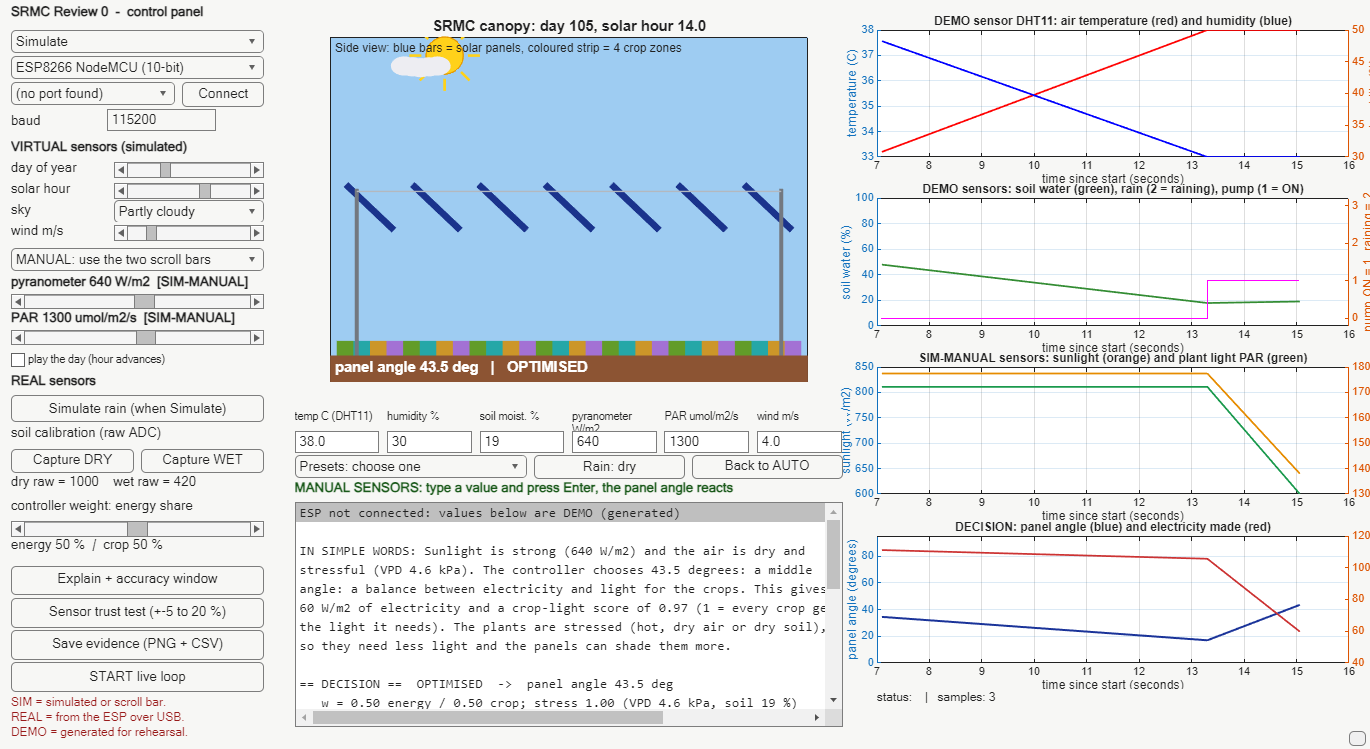
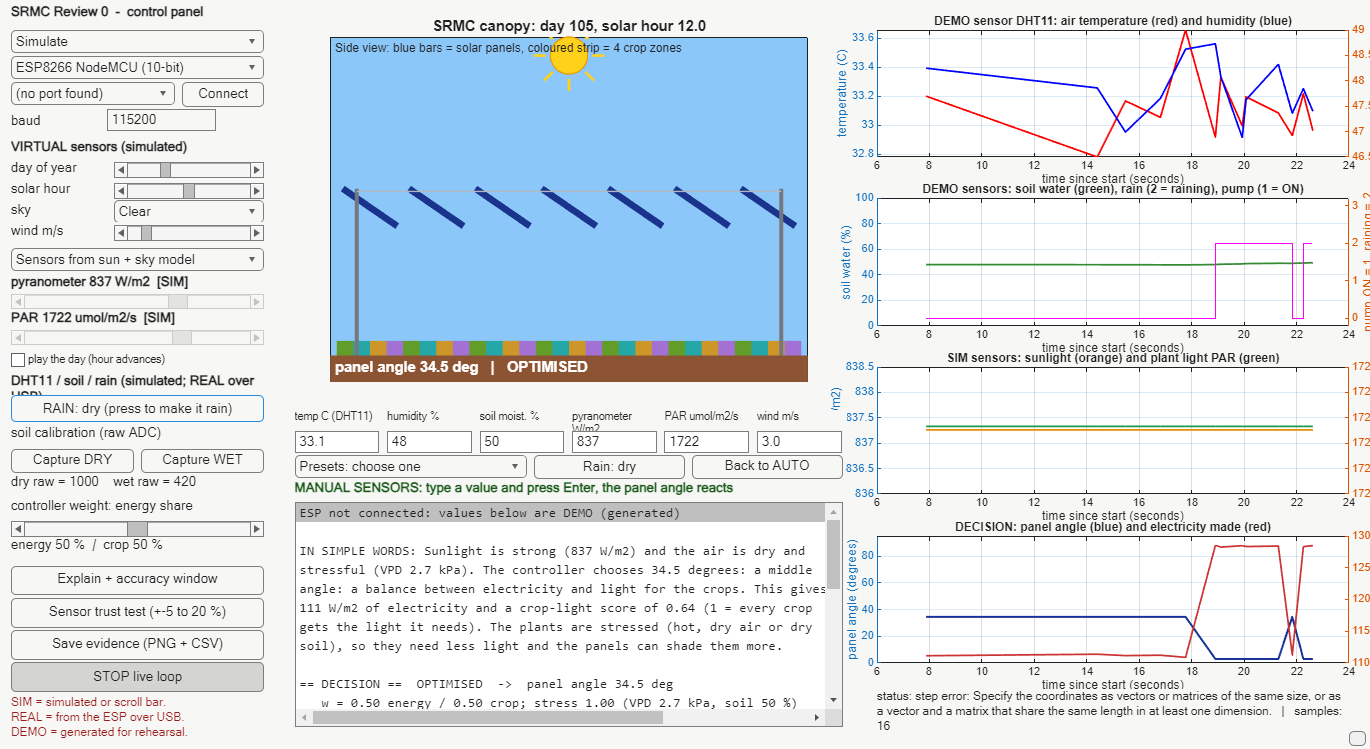
Review 0 dashboard: rain button reacts at once, live loop auto-starts, faster redraw

diff --git a/Review0_Prototype_Demo/matlab/review0_dashboard.m b/Review0_Prototype_Demo/matlab/review0_dashboard.m
@@ -42,9 +42,9 @@ h.pyr = uicontrol(fig, 'Style', 'slider', 'Units', 'normalized', 'Position', [x0
 h.parLbl = U([x0 0.558 w 0.028], 'text', '', [], 'FontWeight', 'bold');
 h.par = uicontrol(fig, 'Style', 'slider', 'Units', 'normalized', 'Position', [x0 0.539 w 0.02], 'Min', 0, 'Max', 2400, 'Value', 1650, 'Enable', 'off', 'Callback', @(~, ~) step());
 h.play = uicontrol(fig, 'Style', 'checkbox', 'Units', 'normalized', 'Position', [x0 0.505 w 0.03], 'String', 'play the day (hour advances)', 'BackgroundColor', [0.97 0.97 0.96], 'Callback', @(s, ~) setPlay(s.Value));
-U([x0 0.472 w 0.03], 'text', 'REAL sensors', [], 'FontWeight', 'bold');
+U([x0 0.472 w 0.03], 'text', 'DHT11 / soil / rain (simulated; REAL over USB)', [], 'FontWeight', 'bold');
 h.rainOv = uicontrol(fig, 'Style', 'togglebutton', 'Units', 'normalized', 'Position', [0.985 0.004 0.012 0.02], 'String', '.', 'BackgroundColor', [0.94 0.94 0.94], 'ForegroundColor', [0.8 0.8 0.8], 'Callback', @(s, ~) setRainOv(s.Value));   % small backup switch: forces rain = wet even when serial data is live (shown as SIM in the text panel)
-h.rain = U([x0 0.437 w 0.035], 'togglebutton', 'Simulate rain (when Simulate)', @(s, ~) setSimRain(s.Value));
+h.rain = U([x0 0.437 w 0.035], 'togglebutton', 'RAIN: dry (press to make it rain)', @(s, ~) setSimRain(s.Value));
 U([x0 0.403 w 0.03], 'text', 'soil calibration (raw ADC)', []);
 h.capDry = U([x0 0.368 0.09 0.033], 'pushbutton', 'Capture DRY', @(~, ~) capture('dry')); h.capWet = U([x0 + 0.095 0.368 0.09 0.033], 'pushbutton', 'Capture WET', @(~, ~) capture('wet'));
 h.calTxt = U([x0 0.337 w 0.03], 'text', '', []);
@@ -71,13 +71,14 @@ h.release = U([0.505 0.36 0.11 0.032], 'pushbutton', 'Back to AUTO', @(~, ~) onR
 h.log = uicontrol(fig, 'Style', 'text', 'Units', 'normalized', 'Position', [0.64 0.01 0.345 0.07], 'String', '', 'BackgroundColor', [0.97 0.97 0.96], 'HorizontalAlignment', 'left', 'FontSize', 9);
 tm = [];
 if ~headless
-    tm = timer('ExecutionMode', 'fixedSpacing', 'Period', 1, 'TimerFcn', @(~, ~) step(), 'BusyMode', 'drop');
+    tm = timer('ExecutionMode', 'fixedSpacing', 'Period', 0.4, 'TimerFcn', @(~, ~) step(), 'BusyMode', 'drop');
     fig.CloseRequestFcn = @onClose;
 end
 lastD = []; lastS = []; lastV = [];
 MP = review0_mppt(); pmP = MP.params(); st.mppt = struct('M', MP, 'pm', pmP, 'st', MP.init(pmP, 30), 'V', 30, 'P', 0, 'Pmpp', 0, 'Vmpp', 0, 'sumP', 0, 'sumM', 0, 'effRun', 100, 'eff', 100);
 WD = review0_words();
 updateCalText(); step();
+if ~headless, h.run.Value = 1; h.run.String = 'STOP live loop'; start(tm); end   % the live loop starts by itself, so buttons react at once
 
 % ---------------- API for headless use ----------------
 app = struct('fig', fig, 'step', @step, 'set', @setState, 'snapshot', @snapshot, 'state', @getState, 'last', @getLast, 'trust', @runTrust, 'explain', @openExplain, 'close', @() delete(fig));
@@ -141,7 +142,7 @@ app = struct('fig', fig, 'step', @step, 'set', @setState, 'snapshot', @snapshot,
         end
         h.smode.Value = 1; onSensorMode(); h.preset.Value = 1;
     end
-    function onRain2(v), st.simRain = logical(v); h.rain.Value = logical(v); step(); end
+    function onRain2(v), h.rain.Value = logical(v); setSimRain(v); end
     function onRelease()                    % hand control back to the generated day and the sun/sky model
         st.fixT = false; st.fixRH = false; st.fixSoil = false; h.smode.Value = 1; onSensorMode();
     end
@@ -153,8 +154,8 @@ app = struct('fig', fig, 'step', @step, 'set', @setState, 'snapshot', @snapshot,
         catch, end
     end
     function setPlay(v), st.play = logical(v); end
-    function setSimRain(v), st.simRain = logical(v); end
-    function setRainOv(v), st.rainOv = logical(v); end
+    function setSimRain(v), st.simRain = logical(v); h.rain.String = ternary(st.simRain, 'RAIN: WET (press to dry)', 'RAIN: dry (press to make it rain)'); step(); end
+    function setRainOv(v), st.rainOv = logical(v); step(); end
     function setRun(v)
         if isempty(tm), return; end
         if v, start(tm); h.run.String = 'STOP live loop'; else, stop(tm); h.run.String = 'START live loop'; end
@@ -281,6 +282,7 @@ app = struct('fig', fig, 'step', @step, 'set', @setState, 'snapshot', @snapshot,
         text(ax, -8.8, 11.6, 'Side view: blue bars = solar panels, coloured strip = 4 crop zones', 'FontSize', 9);
         title(ax, sprintf('SRMC canopy: day %d, solar hour %.1f', V.day, V.hour), 'FontSize', 11);
         % ---- time series ----
+        if ~headless && mod(st.n, 4) ~= 1, h.log.String = ['status: ' st.lastMsg '   |   samples: ' num2str(st.n)]; return; end      % the four time-series plots are the slow part: redraw every 4th update so buttons react at once
         n = size(st.hist, 1); t = st.hist(:, 1); if n < 2, t = [0; 1]; end
         ts = @(axx, ttl) title(axx, ttl, 'FontSize', 9, 'Interpreter', 'none');
         cla(h.axT); yyaxis(h.axT, 'left'); plot(h.axT, t(1:n), st.hist(:, 2), 'r-', 'LineWidth', 1.3); ylabel(h.axT, 'temperature (C)'); yyaxis(h.axT, 'right'); plot(h.axT, t(1:n), st.hist(:, 3), 'b-', 'LineWidth', 1.3); ylabel(h.axT, 'humidity (%)'); ts(h.axT, [rT ' sensor DHT11: air temperature (red) and humidity (blue)']); xlabel(h.axT, 'time since start (seconds)'); grid(h.axT, 'on');
